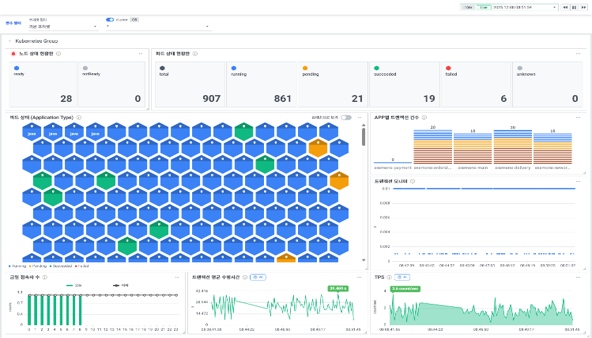
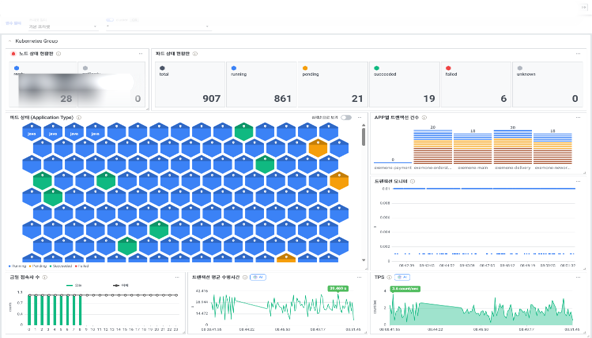
Mask monitoring image and note test data

diff --git a/src/data/profile.ts b/src/data/profile.ts
@@ -357,7 +357,8 @@ export const projects: Project[] = [
     visuals: [
       {
         title: 'Dify SMD 챗봇 워크플로우',
-        description: '질문 분류, 이미지/텍스트 분기, 지식 검색, 답변 생성, 검증 단계를 Dify workflow로 연결해 RAG 응답 처리 흐름 자동화',
+        description:
+          '질문 분류, 이미지/텍스트 분기, 지식 검색, 답변 생성, 검증 단계를 Dify workflow로 연결해 RAG 응답 처리 흐름 자동화 (직접 임시로 재구축한 테스트 화면)',
         imageUrl: 'projects/rag/dify-chatbot-workflow.png',
         alt: '삼성 SMD 제조 장비 자산화 RAG 구축 POC Dify 챗봇 워크플로우',
       },
@@ -370,7 +371,7 @@ export const projects: Project[] = [
       {
         title: 'QdrantDB 메타데이터 필터링',
         description:
-          '문서 유형, 장비 정보, 섹션 단위 메타데이터 필터링과 벡터 유사도 검색을 결합한 하이브리드 서치로 근거 청크를 좁혀 검색하고 답변 품질 개선',
+          '문서 유형, 장비 정보, 섹션 단위 메타데이터 필터링과 벡터 유사도 검색을 결합한 하이브리드 서치로 근거 청크를 좁혀 검색하고 답변 품질 개선 (직접 구성한 더미데이터 화면)',
         imageUrl: 'projects/rag/qdrant-web.png',
         alt: 'QdrantDB 메타데이터 필터링 및 벡터 검색 구성',
       },

diff --git a/src/components/ProjectCard.tsx b/src/components/ProjectCard.tsx
@@ -46,6 +46,8 @@ const visualNoteHighlights = [
   '시스템명, 계정, IP 등은 제거 또는 블러 처리',
   '직접 설계',
   '직접 작업한 아키텍처 이미지는 직접 설계한 사진',
+  '(직접 임시로 재구축한 테스트 화면)',
+  '(직접 구성한 더미데이터 화면)',
   '(테스트용 사진)',
   '(메타넷 공식 홈페이지에서 제공된 예시 이미지)',
   '(사진은 엑셈원 브로셔 제공 자료)',